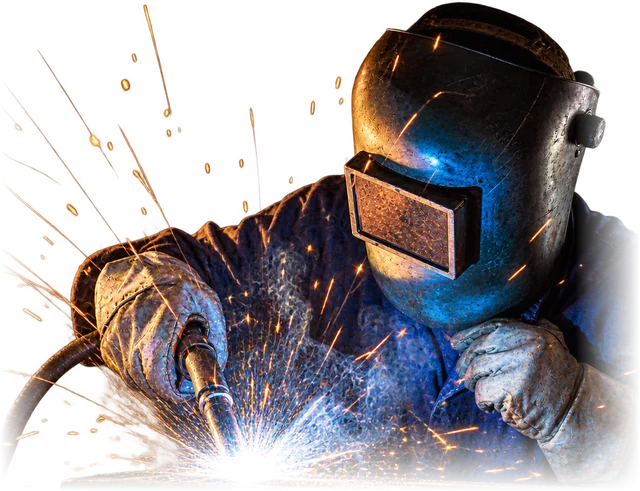
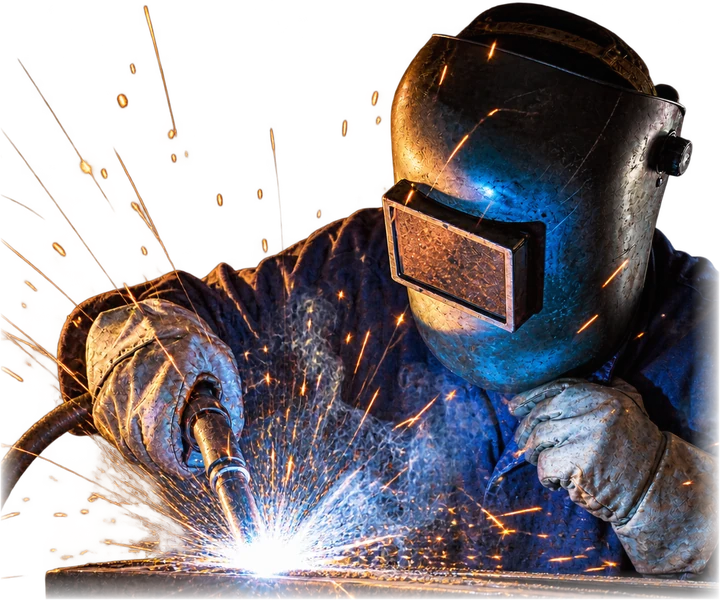
Enlarge quiz photos and thin their edge fades
Tighter crops on the solder-question photos, lighter fades on the cut
edges, and a larger scale into tile padding. Option tile sizes are unchanged.

Claude-Session: https://claude.ai/code/session_01N3JN64YSTt5hr7WxHYLhXE

diff --git a/index.html b/index.html
@@ -153,12 +153,12 @@ h1,h2,h3{text-wrap:balance;margin:0;font-weight:700;letter-spacing:-.02em}
 .opt .art{height:58px;width:100%;display:flex;align-items:center;justify-content:center;margin-bottom:10px}
 .opt .art svg,.opt .art img{max-height:58px;max-width:100%}
 .opt .art{position:relative}
-.opt .art svg.qphoto{height:100%;overflow:visible;transform:scale(var(--qp,1.1));transform-origin:50% 100%;filter:drop-shadow(0 7px 8px rgba(41,37,36,.16)) drop-shadow(0 1.5px 2px rgba(41,37,36,.14));transition:transform .55s var(--out)}
-.opt:hover .art svg.qphoto,.opt[aria-pressed="true"] .art svg.qphoto{transform:translateY(-2px) scale(calc(var(--qp,1.1) + .03))}
-/* Photos grow a little into the tile's top padding (tile sizes stay fixed); phones have less padding to spare. */
-@media (max-width:760px){.opt .art svg.qphoto{--qp:1.04}}
-:root[data-theme="dark"] .opt .art svg.qphoto{filter:drop-shadow(0 0 .5px rgba(255,255,255,.22)) drop-shadow(0 7px 9px rgba(0,0,0,.4))}
-@media (prefers-reduced-motion:reduce){.opt .art svg.qphoto{transition:none}.opt:hover .art svg.qphoto,.opt[aria-pressed="true"] .art svg.qphoto{transform:scale(var(--qp,1.1))}}
+.opt .art svg.qphoto{height:100%;overflow:visible;transform:scale(var(--qp,1.24));transform-origin:50% 54%;filter:drop-shadow(0 3px 4px rgba(41,37,36,.14)) drop-shadow(0 1px 1px rgba(41,37,36,.12));transition:transform .55s var(--out)}
+.opt:hover .art svg.qphoto,.opt[aria-pressed="true"] .art svg.qphoto{transform:scale(calc(var(--qp,1.24) + .03))}
+/* Photos grow into the tile's top padding and the gap above the label, so they read large while tile sizes stay fixed. */
+@media (max-width:760px){.opt .art svg.qphoto{--qp:1.16}}
+:root[data-theme="dark"] .opt .art svg.qphoto{filter:drop-shadow(0 3px 4px rgba(0,0,0,.35))}
+@media (prefers-reduced-motion:reduce){.opt .art svg.qphoto{transition:none}.opt:hover .art svg.qphoto,.opt[aria-pressed="true"] .art svg.qphoto{transform:scale(var(--qp,1.24))}}
 .opt[aria-pressed="true"]{background:var(--tile-hover);box-shadow:inset 0 0 0 1.5px var(--ink)}
 .opt .tick{position:absolute;top:-7px;right:-7px;width:20px;height:20px;border-radius:50%;background:var(--ink);color:var(--surface);display:none;place-items:center;box-shadow:0 0 0 2px var(--surface)}
 .opt[aria-pressed="true"] .tick{display:grid;animation:pop .35s var(--spring)}
@@ -1501,7 +1501,7 @@ function waveSVG(pitch,amp=1){
 // sources in assets/quiz/CREDITS.md). Each picture is cropped tight and its frame fits it exactly, so it fills the
 // option's art height instead of floating small inside it.
 const QUIZ_PHOTOS={ps5:['ps5',.702],work:['multitasker',1.293],usb:['usb-cable',1.747],receiver:['wireless-receiver',1.131],
-  hotswap:['switch-puller',1.345],solder:['welder',1.303]};
+  hotswap:['switch-puller',1.129],solder:['welder',1.2]};
 function quizPhoto(kind){
   // Each item is [photo, height out of 60]; items stand side by side on a shared baseline.
   const items={gaming:[['ps5',60]],work:[['work',60]],both:[['ps5',60],['work',56]],
